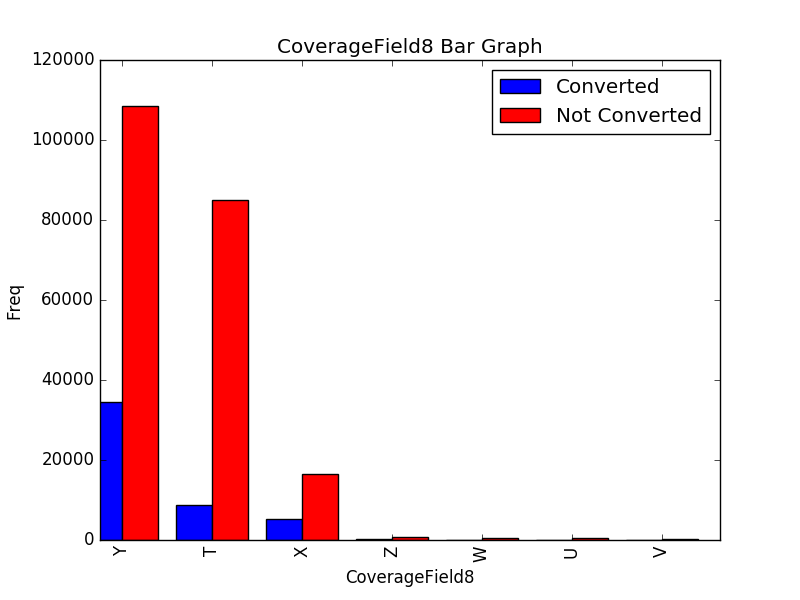
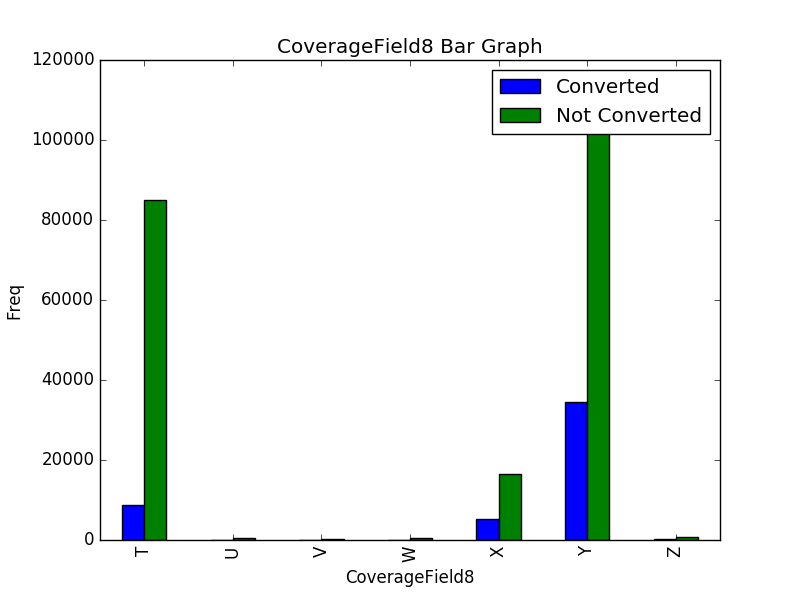
Fixed categorical plots.

diff --git a/feature_analysis/categorical_plots.py b/feature_analysis/categorical_plots.py
@@ -37,19 +37,36 @@ df_neg = train.loc[train['QuoteConversion_Flag'] == 0] # not bought
 features = [s for s in train.columns.ravel().tolist() if s != 'QuoteConversion_Flag']
 
 # Create plots
+print("## Creating plots")
 for f in features:
     if train[f].dtype.name == 'object':
+
+        # Get the counts of the categories for both pos/neg series
+        counts_pos = df_pos[f].value_counts().sort_index()
+        counts_neg = df_neg[f].value_counts().sort_index()
+        counts_pos.name = 'conv'
+        counts_neg.name = 'not_conv'
+
+        # Combine into one dataframe
+        feat_counts_df = pd.concat([counts_pos, counts_neg], axis=1)
+
+        # Do some calculations
+        feat_counts_df['sum'] = feat_counts_df.sum(axis=1)
+        feat_counts_df['conv_pct'] = feat_counts_df['conv']/feat_counts_df['sum']
+
+#         pd.to_csv(
+
+        # Plot
         plt.clf() # Clear figure
-        width = 0.4
+        feat_counts_df.plot(kind='bar')
+
+        # Labels
         plt.xlabel(f)
         plt.ylabel('Freq')
         plt.title(f + ' Bar Graph')
-
-        df_pos[f].value_counts().plot(kind='bar', color='blue', width=width, position=1)
-        df_neg[f].value_counts().plot(kind='bar', color='red', width=width, position=0)
-
         plt.legend(labels=['Converted', 'Not Converted'])
 
+        # Save
         plt.savefig('plots_cat/' + f + '.png')
 
     # else: # draw histograms
